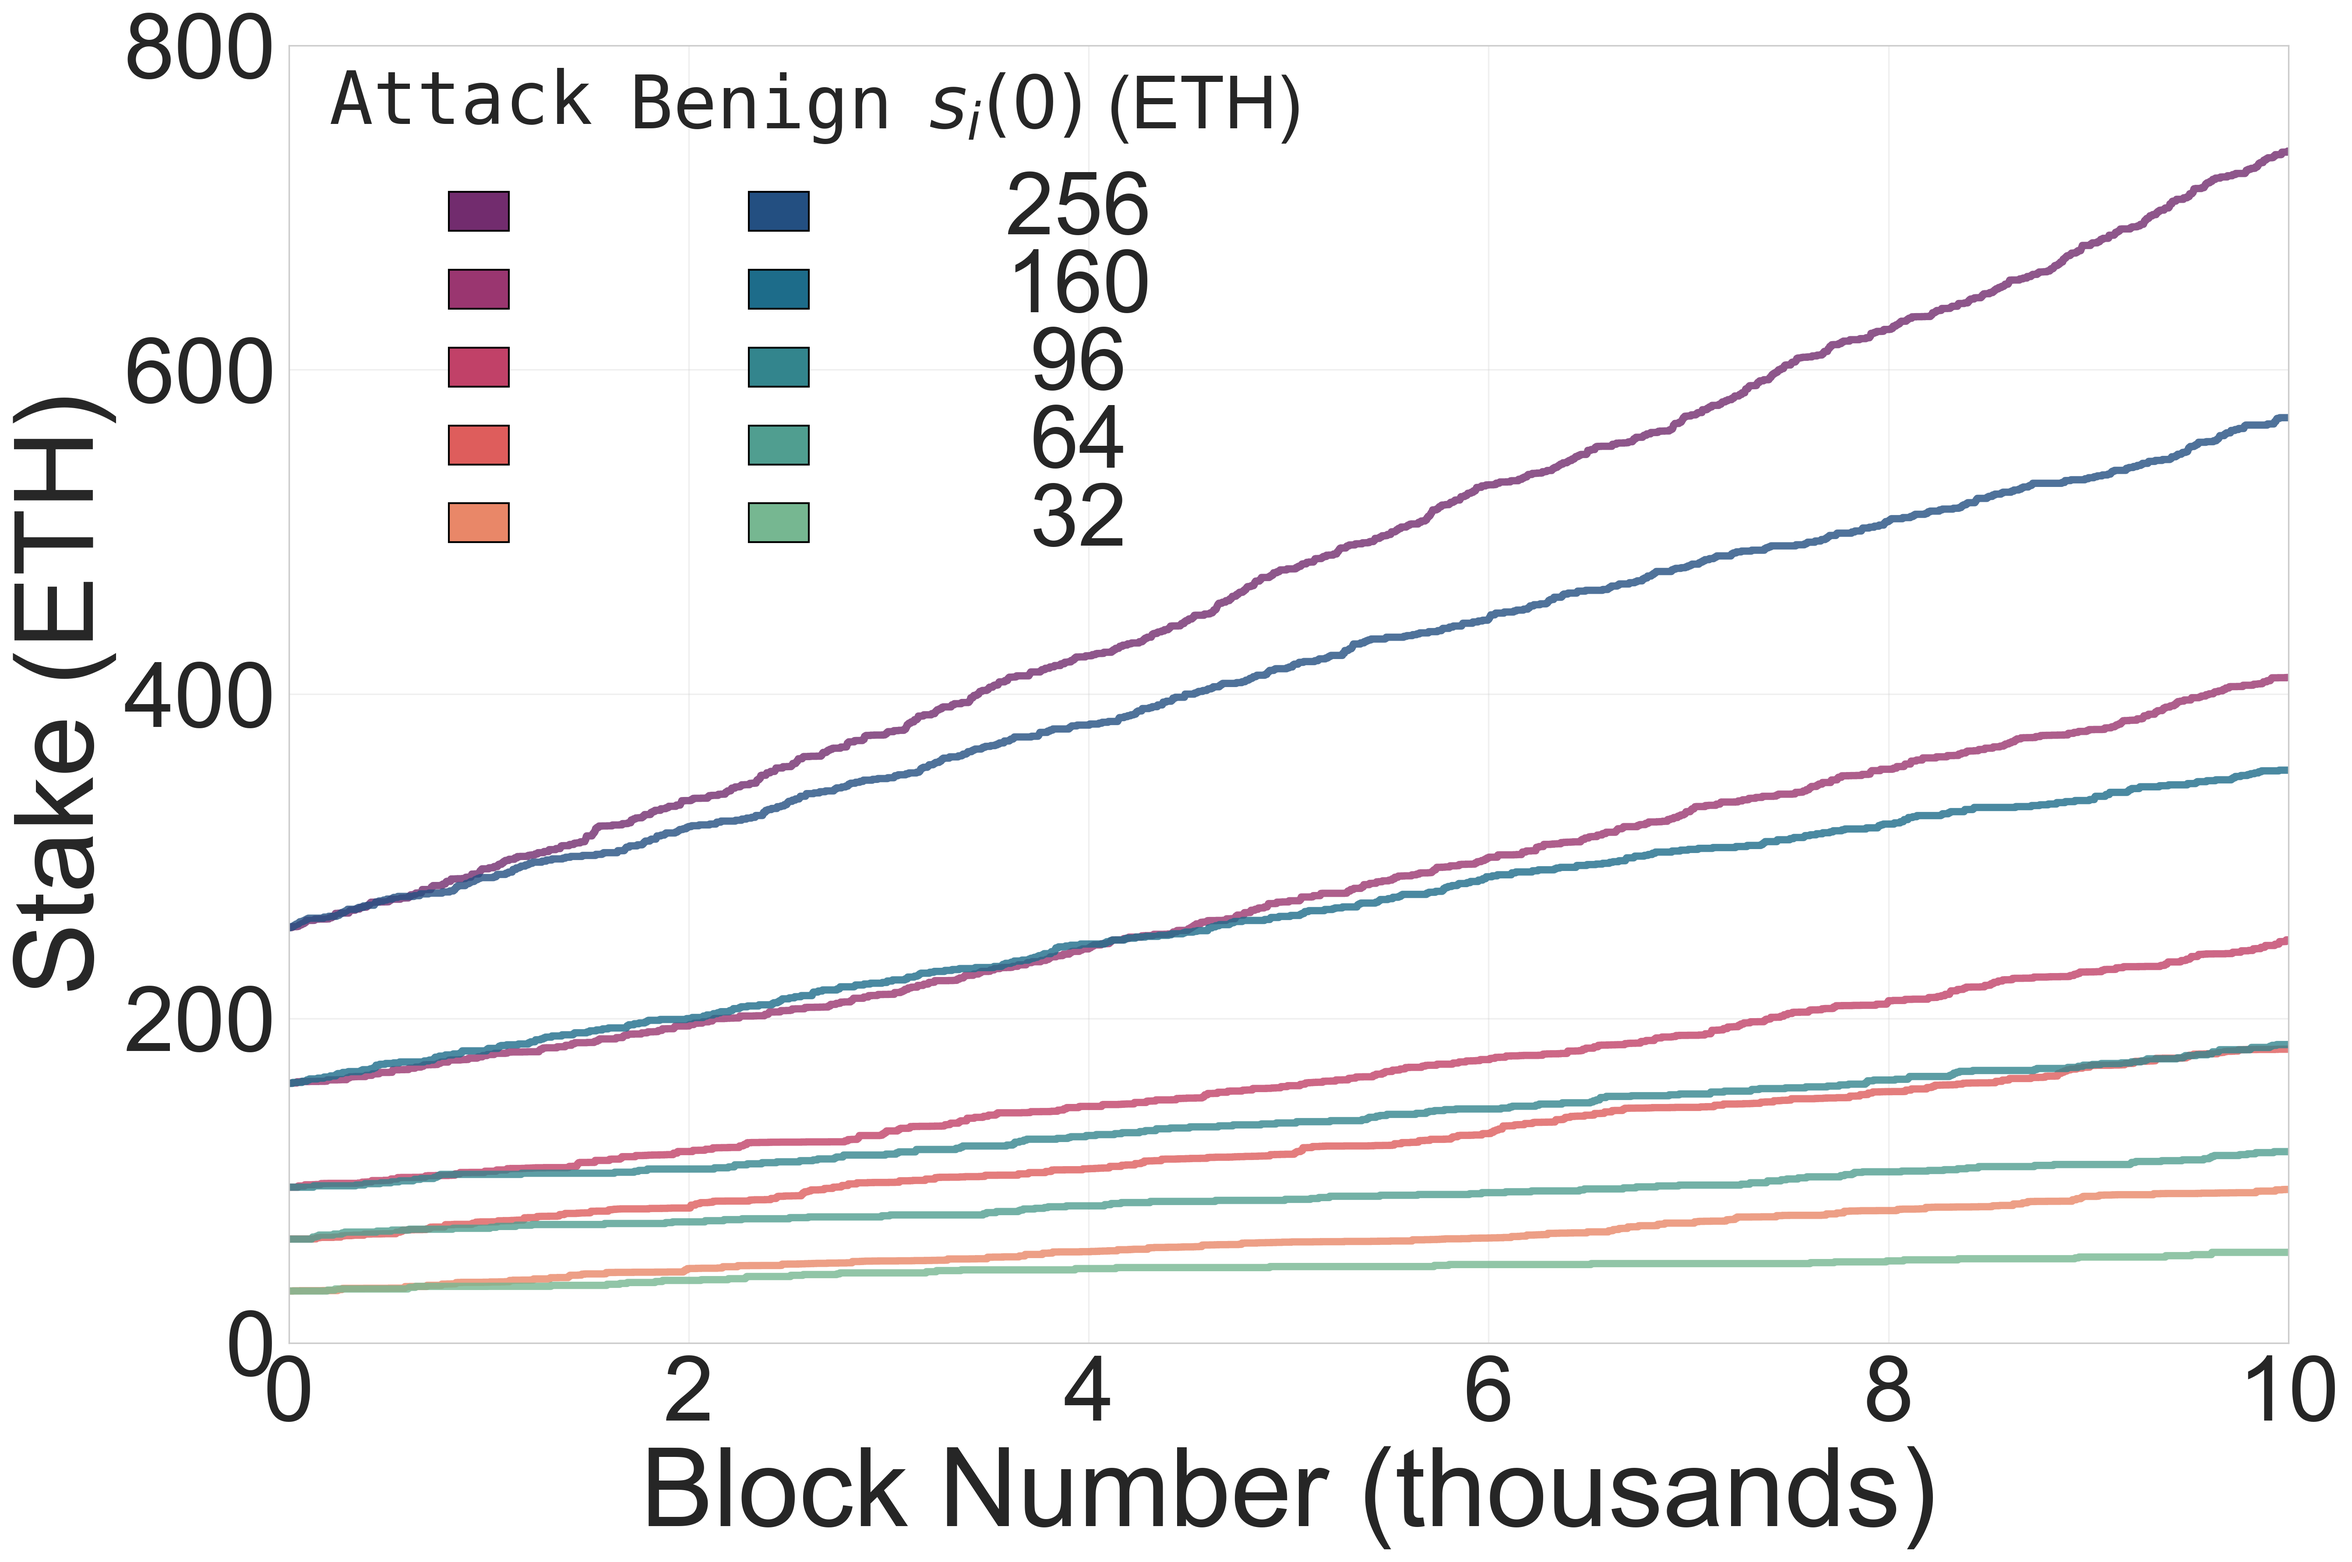
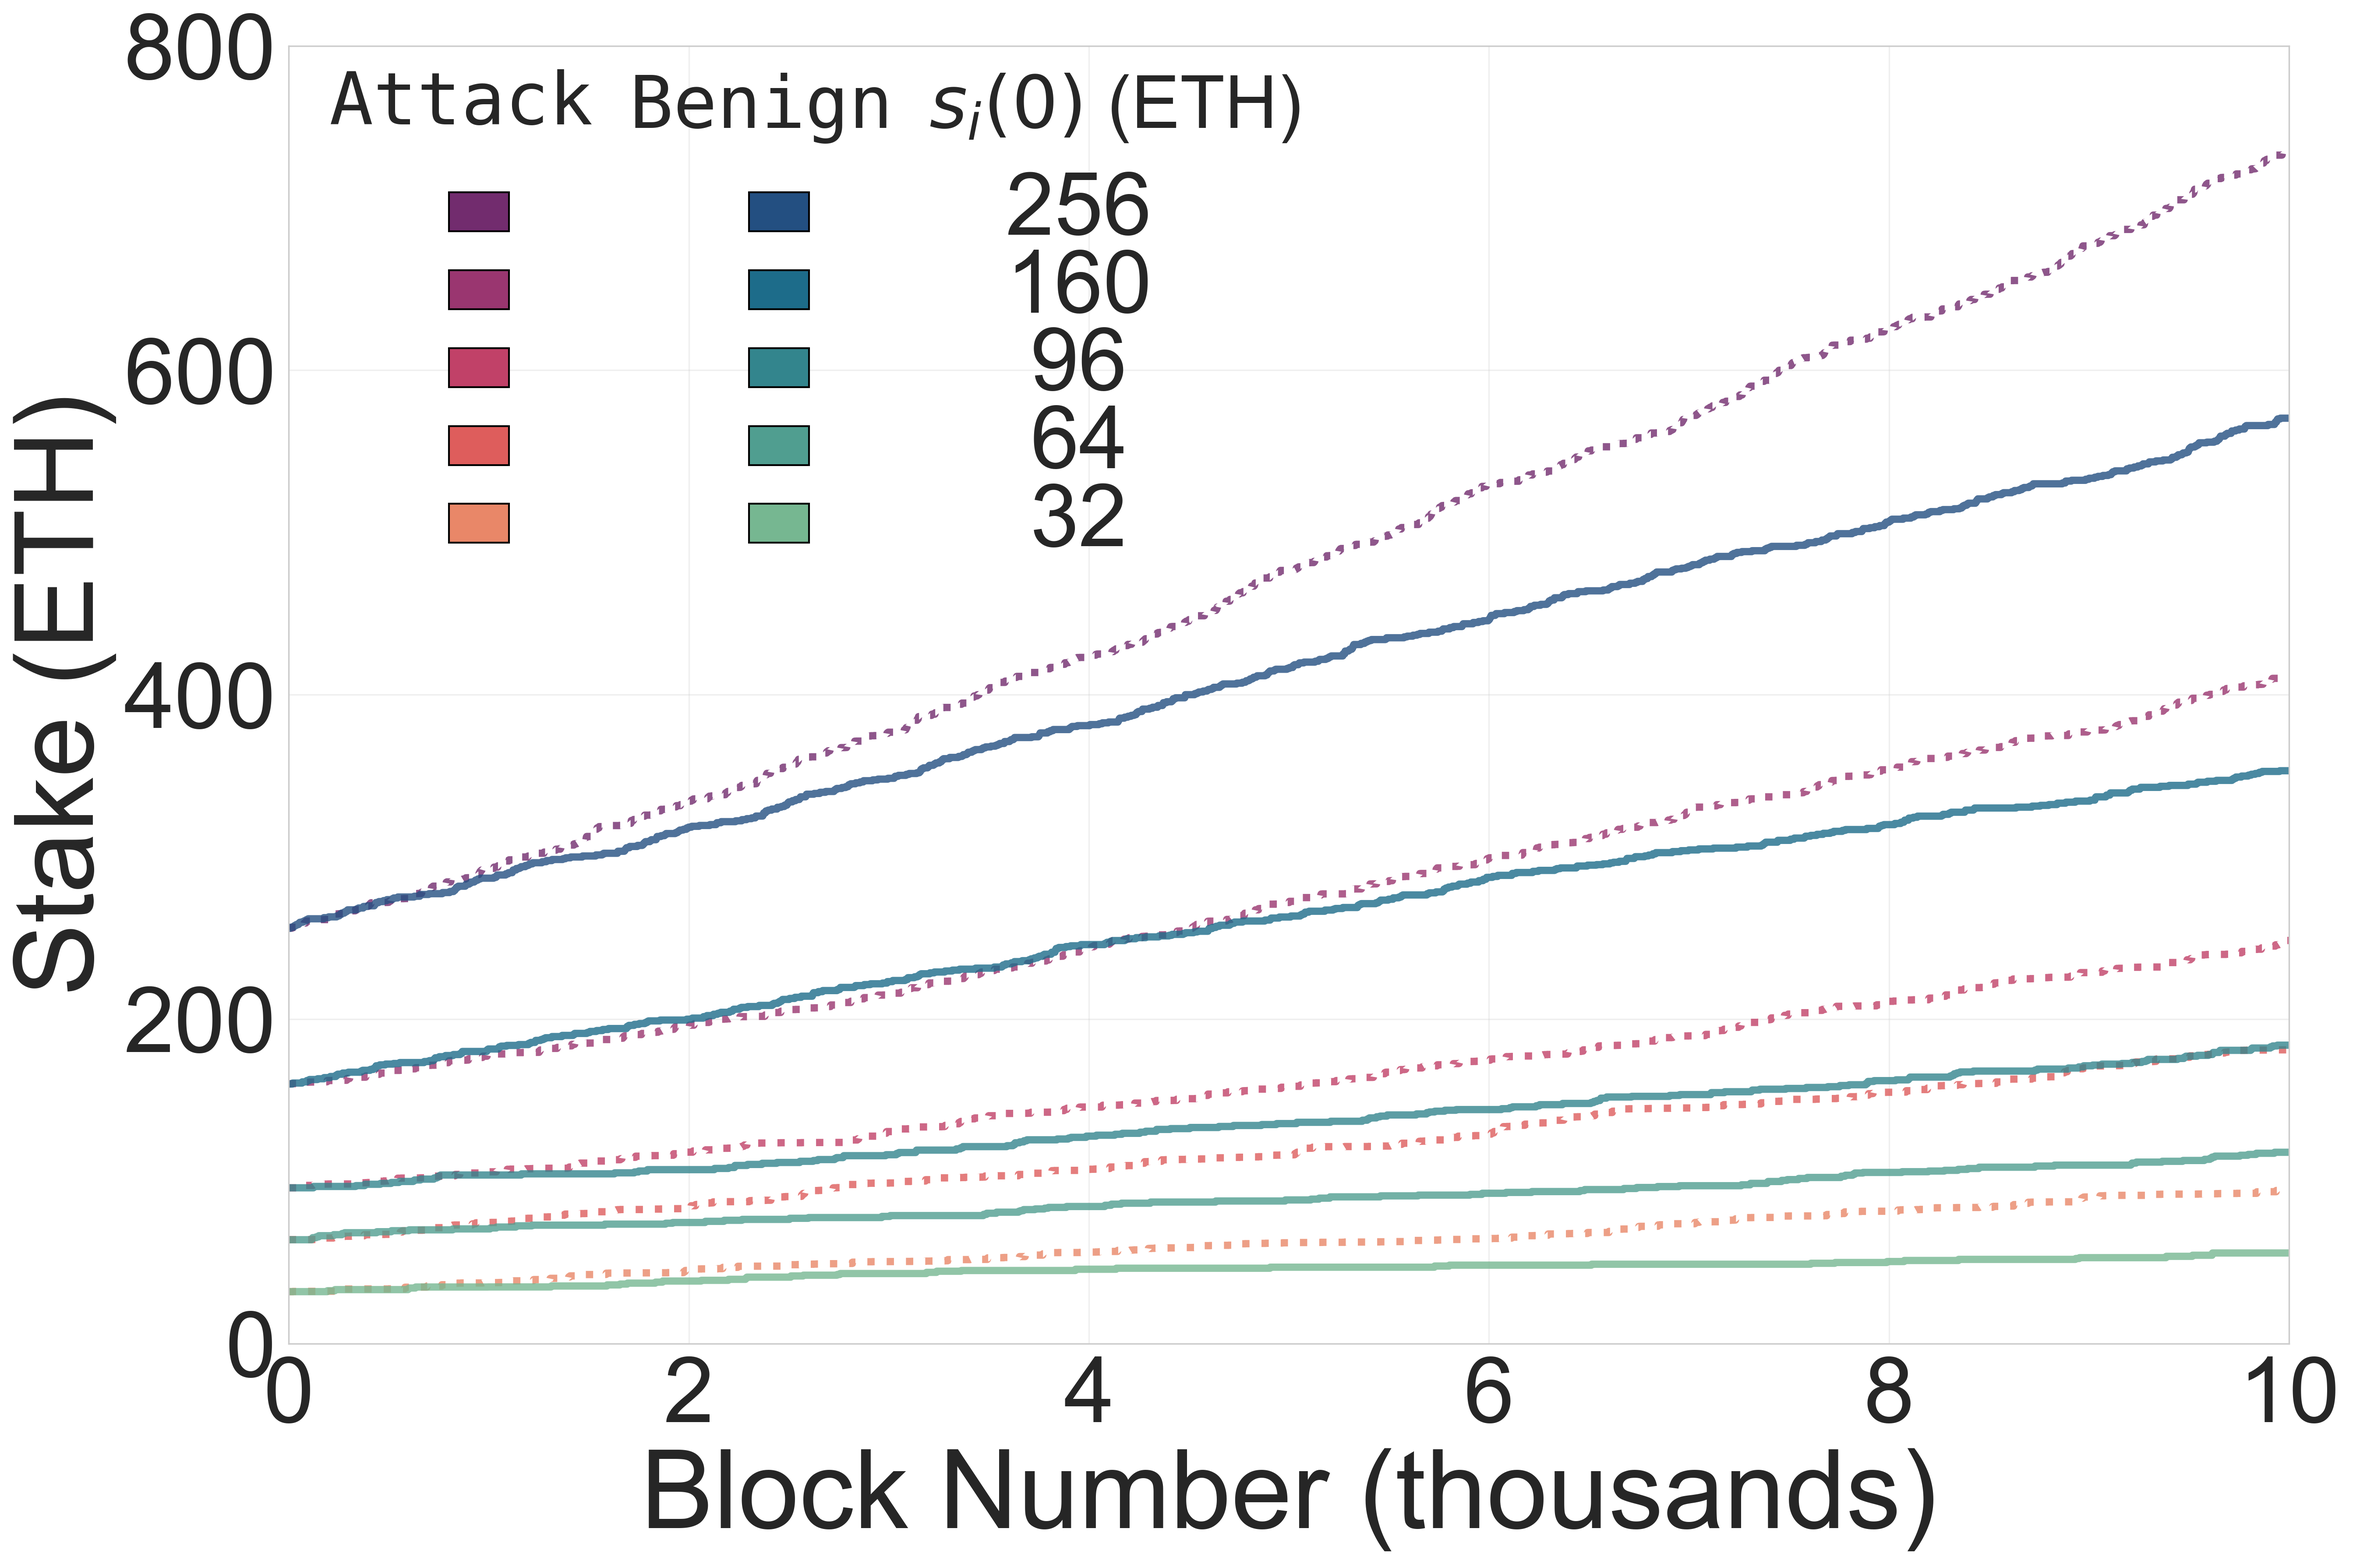
dotted lines

diff --git a/plots/ss/plot_restaking.py b/plots/ss/plot_restaking.py
@@ -38,7 +38,7 @@ def plot_pos_validators():
     
     for stake_level in stake_levels:
         # Sample attack validators at this stake level
-        attack_at_stake = stake_evolution[(stake_evolution['is_attacker'] is True) & (stake_evolution['initial_stake'] == stake_level)]
+        attack_at_stake = stake_evolution[(stake_evolution['is_attacker'] == True) & (stake_evolution['initial_stake'] == stake_level)]
         if len(attack_at_stake) >= 1:
             sampled_attack = attack_at_stake.sample(1, random_state=16)['participant_id'].tolist()
             all_sampled.extend(sampled_attack)
@@ -46,7 +46,7 @@ def plot_pos_validators():
             print(f"Warning: No attack validators at {stake_level/1e9} ETH stake level")
         
         # Sample non-attack validators at this stake level
-        nonattack_at_stake = stake_evolution[(stake_evolution['is_attacker'] is False) & (stake_evolution['initial_stake'] == stake_level)]
+        nonattack_at_stake = stake_evolution[(stake_evolution['is_attacker'] == False) & (stake_evolution['initial_stake'] == stake_level)]
         if len(nonattack_at_stake) >= 1:
             sampled_nonattack = nonattack_at_stake.sample(1, random_state=16)['participant_id'].tolist()
             all_sampled.extend(sampled_nonattack)
@@ -103,6 +103,7 @@ def plot_pos_validators():
                     x='block_num', 
                     y=validator_data['validator_capital'] / 1e9,
                     color=color,
+                    linestyle=':',  # Dotted line for attack
                     linewidth=4.0,
                     alpha=0.8,
                     label=label)
@@ -234,14 +235,14 @@ def plot_pbs_builders():
     builders = participants_df[participants_df['participant_type'] == 'builder']
     
     # Define the 5 initial stake levels (in ETH) - same as PoS
-    stake_levels = [32, 64, 96, 160, 256]  # 1, 2, 3, 5, 8 nodes respectively
+    stake_levels = [32.0, 64.0, 96.0, 160.0, 256.0]  # 1, 2, 3, 5, 8 nodes respectively
     
     # Sample 1 builder from each stake level for both attack and non-attack
     all_sampled = []
     
     for stake_level in stake_levels:
         # Sample 1 attack builder at this stake level
-        attack_at_stake = builders[(builders['is_attacker'] is True) & (builders['initial_stake_eth'] == stake_level)]
+        attack_at_stake = builders[(builders['is_attacker'] == True) & (builders['initial_stake_eth'] == stake_level)]
         if len(attack_at_stake) >= 1:
             sampled_attack = attack_at_stake.sample(1, random_state=16)['participant_id'].tolist()
             all_sampled.extend(sampled_attack)
@@ -251,7 +252,7 @@ def plot_pbs_builders():
             print(f"Warning: No attack builders at {stake_level} ETH stake level")
         
         # Sample 1 non-attack builder at this stake level
-        nonattack_at_stake = builders[(builders['is_attacker'] is False) & (builders['initial_stake_eth'] == stake_level)]
+        nonattack_at_stake = builders[(builders['is_attacker'] == False) & (builders['initial_stake_eth'] == stake_level)]
         if len(nonattack_at_stake) >= 1:
             sampled_nonattack = nonattack_at_stake.sample(1, random_state=16)['participant_id'].tolist()
             all_sampled.extend(sampled_nonattack)
@@ -268,10 +269,10 @@ def plot_pbs_builders():
     print("\nSampled builders by stake level:")
     for stake_level in stake_levels:
         attack_count = len([b for b in all_sampled if 
-                           participants_df[participants_df['participant_id'] == b].iloc[0]['is_attacker'] is True and
+                           participants_df[participants_df['participant_id'] == b].iloc[0]['is_attacker'] == True and
                            participants_df[participants_df['participant_id'] == b].iloc[0]['initial_stake_eth'] == stake_level])
         nonattack_count = len([b for b in all_sampled if 
-                              participants_df[participants_df['participant_id'] == b].iloc[0]['is_attacker'] is False and
+                              participants_df[participants_df['participant_id'] == b].iloc[0]['is_attacker'] == False and
                               participants_df[participants_df['participant_id'] == b].iloc[0]['initial_stake_eth'] == stake_level])
         print(f"{stake_level} ETH: {attack_count} attack, {nonattack_count} non-attack")
     
@@ -309,7 +310,7 @@ def plot_pbs_builders():
         
         if len(continuous_data) > 0:
             # Determine color based on stake level
-            stake_idx = stake_levels.index(int(initial_stake))
+            stake_idx = stake_levels.index(initial_stake)
             color = attack_colors[stake_idx]
             
             # Only add label for first occurrence of each stake level
@@ -324,6 +325,7 @@ def plot_pbs_builders():
                         x='block_num', 
                         y=continuous_data['current_capital'] / 1e9,  # Use current_capital for total value
                         color=color,
+                        linestyle=':',  # Dotted line for attack
                         linewidth=4.0,
                         alpha=0.8,
                         label=label)
@@ -336,7 +338,7 @@ def plot_pbs_builders():
         
         if len(continuous_data) > 0:
             # Determine color based on stake level
-            stake_idx = stake_levels.index(int(initial_stake))
+            stake_idx = stake_levels.index(initial_stake)
             color = nonattack_colors[stake_idx]
             
             # Only add label for first occurrence of each stake level
@@ -393,13 +395,13 @@ def plot_pbs_builders():
              transform=plt.gca().transAxes, fontsize=40, va='top')
     
     # Create gradient squares for each stake level (256, 160, 96, 64, 32 ETH)
-    stake_levels_eth = [256, 160, 96, 64, 32]
+    stake_levels_eth = [256.0, 160.0, 96.0, 64.0, 32.0]
     for i, stake in enumerate(stake_levels_eth):
         row_y = legend_y - row_height * (i + 1.8)
         
         # Attack column square (centered)
         if stake in attack_labels_added:
-            stake_idx = stake_levels.index(int(stake))
+            stake_idx = stake_levels.index(stake)
             color = attack_colors[stake_idx]
             # Draw colored square centered in column
             square_x = legend_x + col_width/2 - square_size/2
@@ -409,7 +411,7 @@ def plot_pbs_builders():
         
         # Benign column square (centered)
         if stake in nonattack_labels_added:
-            stake_idx = stake_levels.index(int(stake))
+            stake_idx = stake_levels.index(stake)
             color = nonattack_colors[stake_idx]
             # Draw colored square centered in column
             square_x = legend_x + col_width + col_width/2 - square_size/2
@@ -449,7 +451,7 @@ def plot_pbs_proposers():
     proposers = participants_df[participants_df['participant_type'] == 'proposer']
     
     # Define the 5 initial stake levels (in ETH) - same as PoS
-    stake_levels = [32, 64, 96, 160, 256]  # 1, 2, 3, 5, 8 nodes respectively
+    stake_levels = [32.0, 64.0, 96.0, 160.0, 256.0]  # 1, 2, 3, 5, 8 nodes respectively
     
     # Sample 2 proposers from each stake level
     all_sampled = []
@@ -489,7 +491,7 @@ def plot_pbs_proposers():
         
         if len(continuous_data) > 0:
             # Determine color based on stake level
-            stake_idx = stake_levels.index(int(initial_stake))
+            stake_idx = stake_levels.index(initial_stake)
             color = nonattack_colors[stake_idx]
             
             # Only add label for first occurrence of each stake level
@@ -540,12 +542,12 @@ def plot_pbs_proposers():
              transform=plt.gca().transAxes, fontsize=40, va='top')
     
     # Create gradient squares for each stake level (256, 160, 96, 64, 32 ETH)
-    stake_levels_eth = [256, 160, 96, 64, 32]
+    stake_levels_eth = [256.0, 160.0, 96.0, 64.0, 32.0]
     for i, stake in enumerate(stake_levels_eth):
         row_y = legend_y - row_height * (i + 1.8)
         
         # Draw colored square
-        stake_idx = stake_levels.index(int(stake))
+        stake_idx = stake_levels.index(stake)
         color = nonattack_colors[stake_idx]
         square = plt.Rectangle((legend_x, row_y - square_size/2), square_size, square_size,
                              transform=plt.gca().transAxes, facecolor=color, edgecolor='black', linewidth=1)
